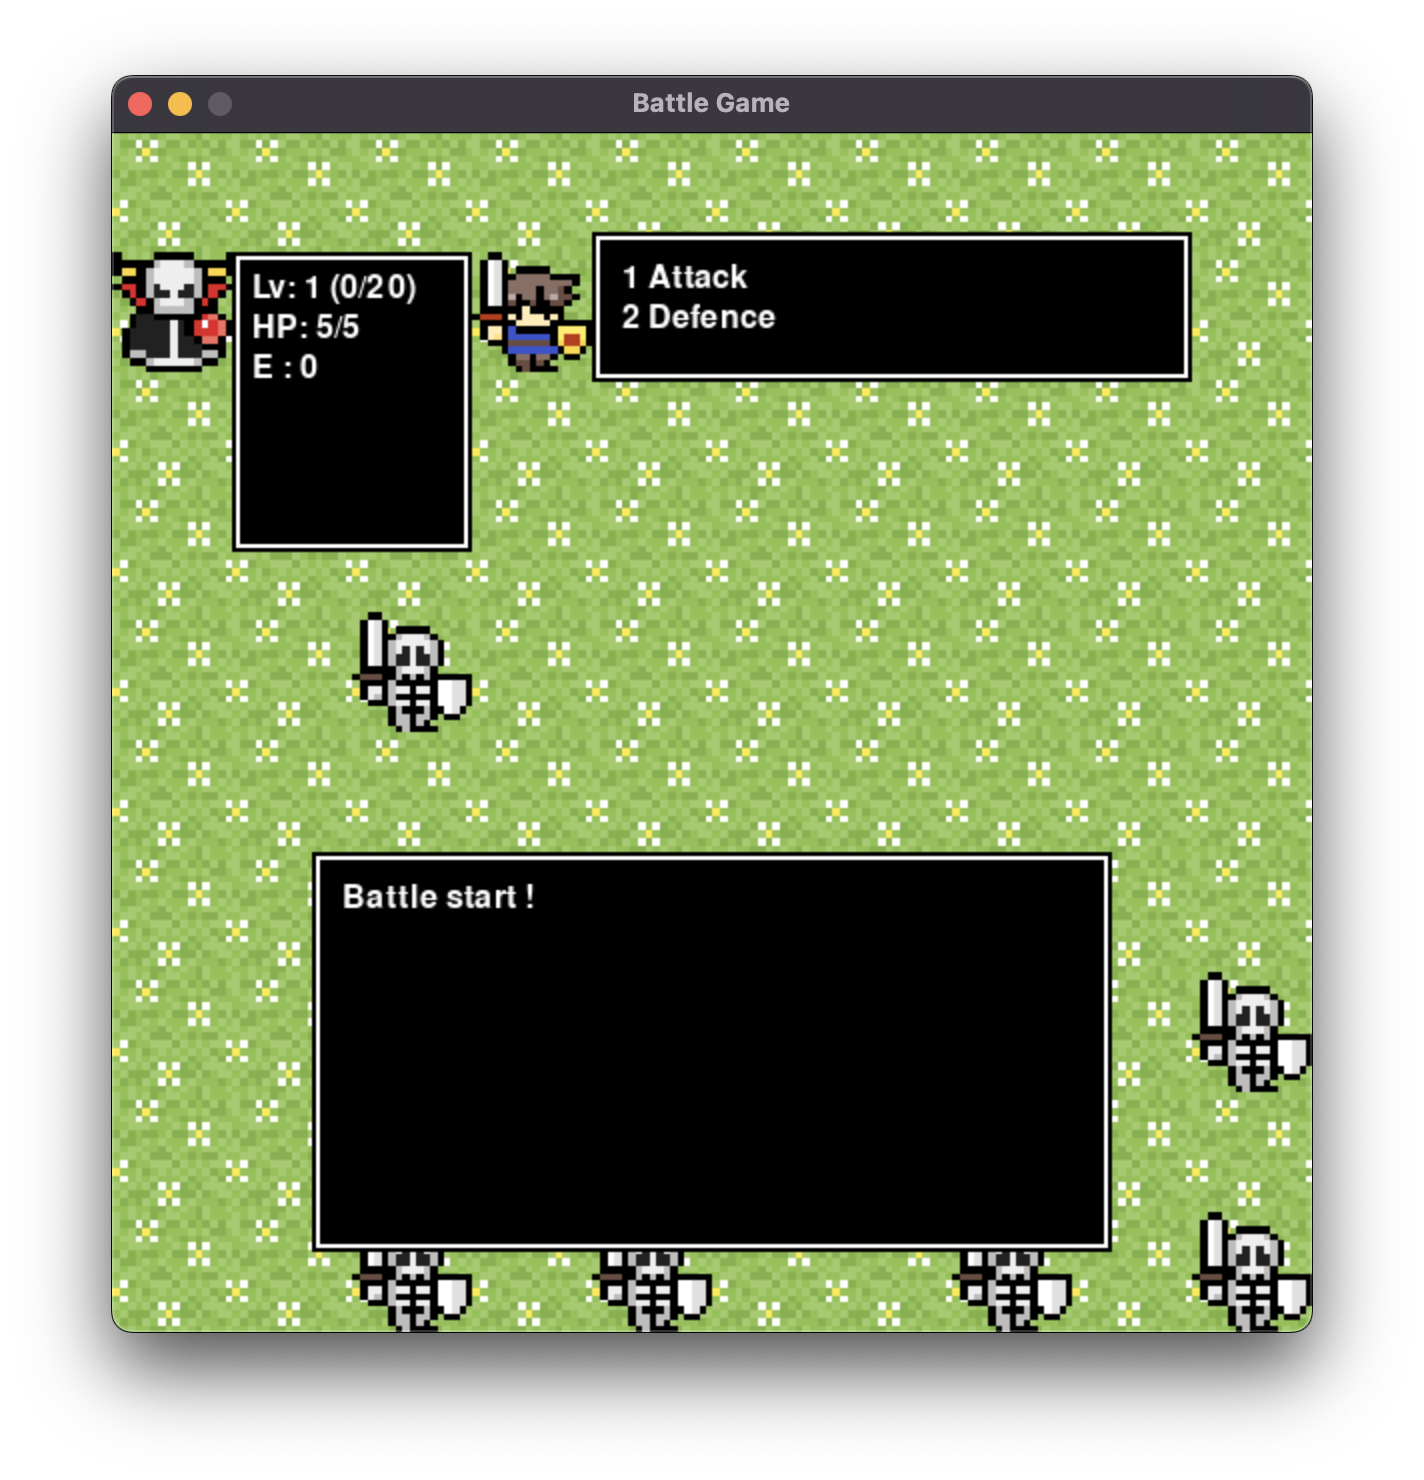
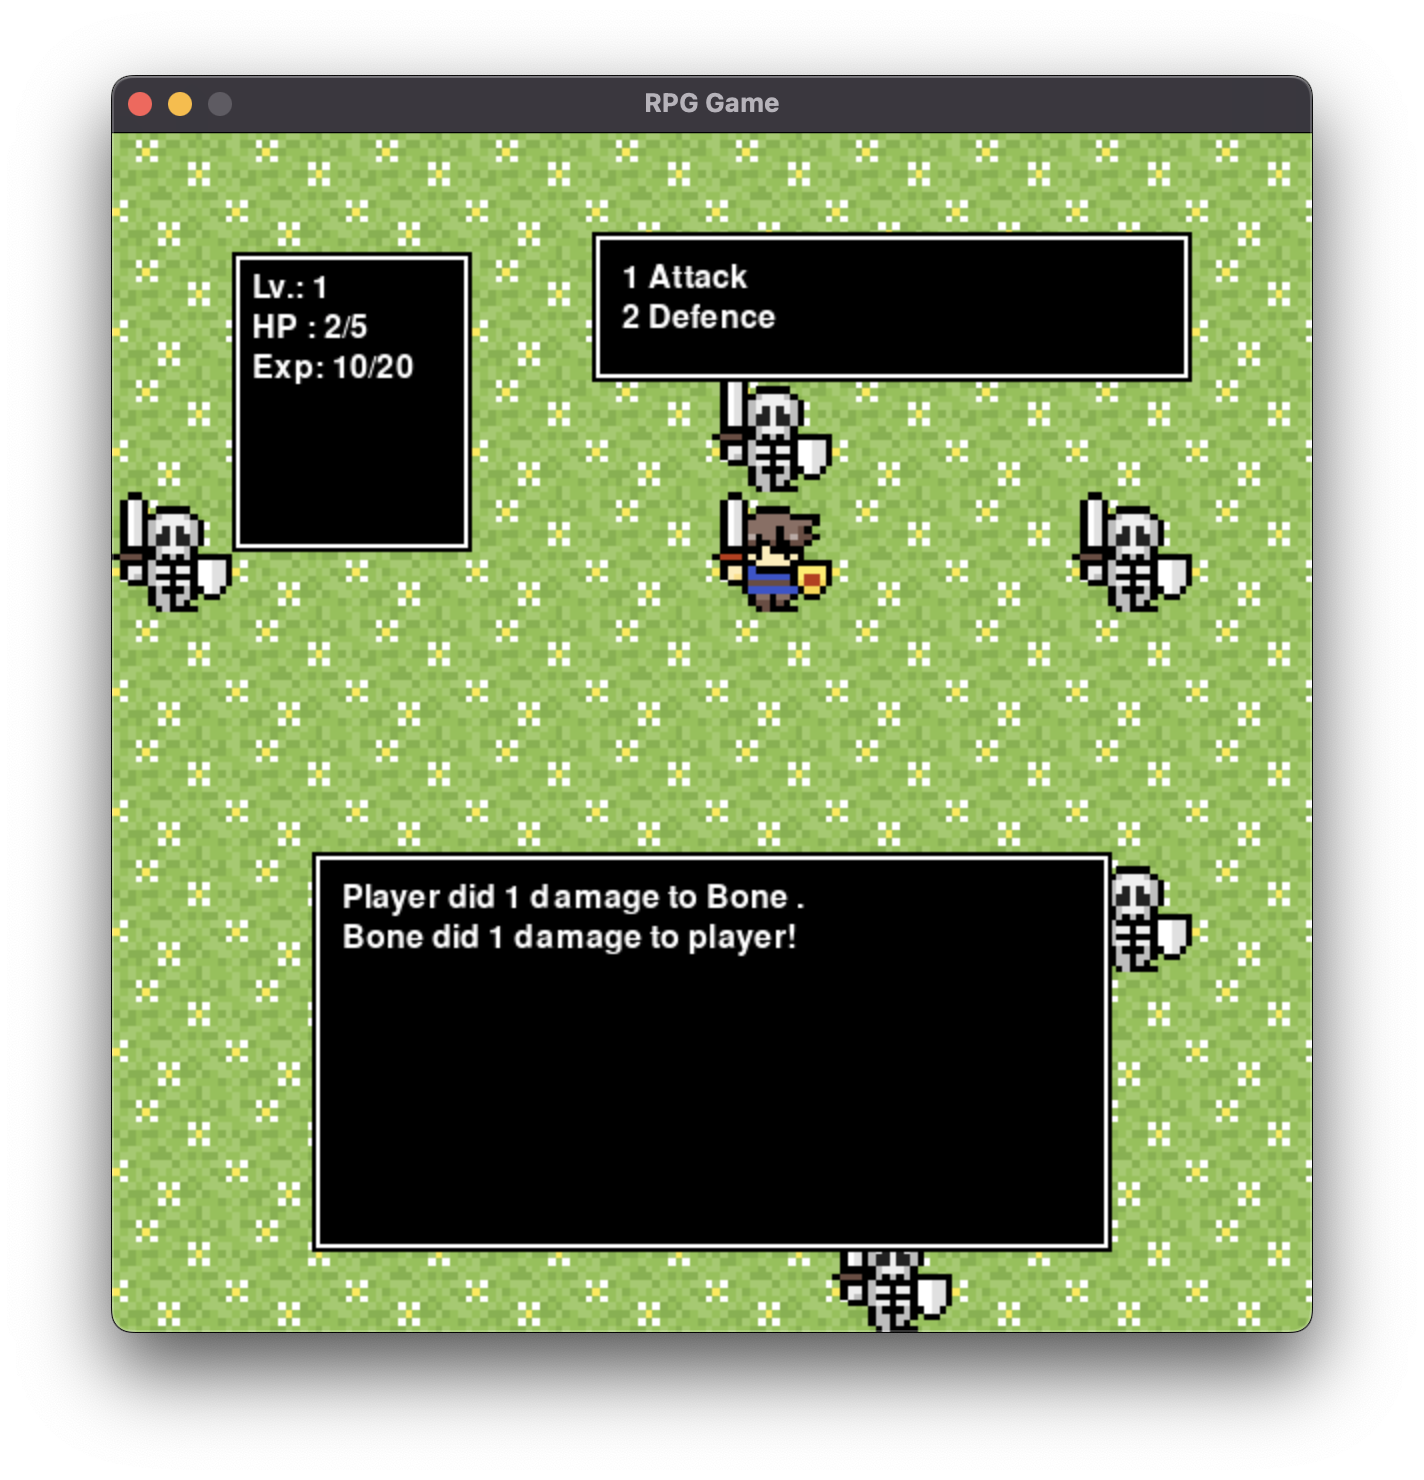
セリフを変更

diff --git a/RPG.py b/RPG.py
@@ -25,20 +25,14 @@ class Player:
         self.game_map = game_map
         self.game_map[self.y][self.x] = "P"
 
-    def encounter_enemy(self, x, y):
-        for enemy in self.enemies:
-            if enemy.x == x and enemy.y == y:
-                print("Encountered an enemy!")
-                self.battle(enemy)
-
     def attack(self, enemy):
         enemy.health -= self.attack_power
-        return f"Attacked {self.attack_power}"
+        return f"Player did {self.attack_power} damage to {enemy.name} ."
 
     def take_damage(self, damage):
         self.health -= damage
         if self.health <= 0:
-            print("Player defeated! Game over.")
+            print("Player was killed ! Game over .")
             self.game_over = True
 
     def gain_experience(self, experience):
@@ -52,7 +46,7 @@ class Player:
         self.health = self.max_health
         self.experience -= self.experience_to_level_up
         self.experience_to_level_up *= 2
-        print(f"Player leveled up!({self.level-1}->{self.level}) ")
+        print(f"Player leveled up! ({self.level-1}->{self.level}) ")
         print("HP increased and fully healed.")
 
 class Enemy:
@@ -61,13 +55,14 @@ class Enemy:
         self.y = y
         self.health = health
         self.attack_power = attack_power
+        self.name = "Bone"
 
     def attack(self, player):
         if player.defense:
             return "Player defended the attack!"
         else:
             player.take_damage(self.attack_power)
-            return f"Damaged {self.attack_power}"
+            return f"{self.name} did {self.attack_power} damage to player!"
 
     def take_damage(self, damage):
         self.health -= damage
@@ -75,6 +70,7 @@ class Enemy:
 class Boss(Enemy):
     def __init__(self, x, y, health=5, attack_power=3):
         super().__init__(x, y, health, attack_power)
+        self.name = "BoneKing"
 
 class Game:
     def __init__(self, map_size):
@@ -88,7 +84,7 @@ class Game:
         pygame.init()
         # ゲームウィンドウの作成
         self.window = pygame.display.set_mode((WINDOW_WIDTH, WINDOW_HEIGHT))
-        pygame.display.set_caption('Battle Game')
+        pygame.display.set_caption('RPG Game')
 
         self.map[self.player.y][self.player.x] = "P"
         for enemy in self.enemies:
@@ -162,7 +158,7 @@ class Game:
             self.player.y = new_y
             self.map[self.player.y][self.player.x] = "P"
         else:
-            print("You can't move there. Try again.")
+            print("You can't move there . Try again .")
 
 
     def encounter_enemy(self, x, y):
@@ -172,7 +168,7 @@ class Game:
 
     def battle(self, enemy):
         self.current_enemy = enemy
-        self.states = ["Battle start !"]
+        self.states = [f"{enemy.name} showed up !"]
         while self.player.health > 0 and enemy.health > 0:
             self.print_map()
             self.print_battle()
@@ -204,7 +200,7 @@ class Game:
             self.player.gain_experience(10)
             self.enemies.remove(enemy)
             self.map[enemy.y][enemy.x] = "-"  # マップ上から敵を削除
-            self.states.append("Killed")
+            self.states.append(f"Player killed {enemy.name} .")
             # pygame.display.update()
 
     def print_battle(self):
@@ -217,9 +213,9 @@ class Game:
         pygame.draw.rect(self.window, WHITE_COLOR, pygame.Rect(status_left, status_top, status_width, status_height), 4)
         pygame.draw.rect(self.window, BLACK_COLOR, pygame.Rect(status_left, status_top, status_width, status_height), 2)
         status_text = [
-            f"Lv: {self.player.level} ({self.player.experience}/{self.player.experience_to_level_up})",
-            f"HP: {self.player.health}/{self.player.max_health}",
-            f"E : {self.player.experience}"
+            f"Lv.: {self.player.level}",
+            f"HP : {self.player.health}/{self.player.max_health}",
+            f"Exp: {self.player.experience}/{self.player.experience_to_level_up}"
         ]
         for i, text in enumerate(status_text):
             self.draw_text(text, status_left + 10, status_top + 10 + i * 20, color=WHITE_COLOR)
